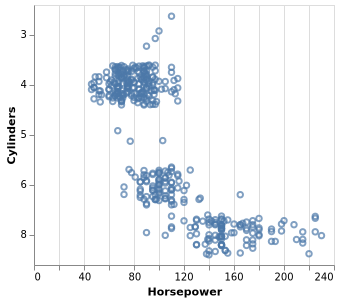
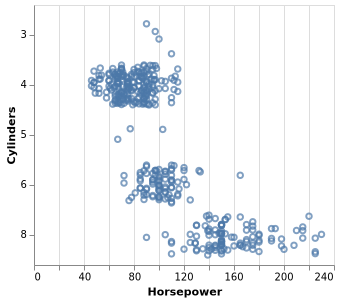
fix: Reverse `yOffset` directionality for quantitative scales to match `y` (#9817)
Close #9816, details and motivation can be found in that issue.

This PR makes the `yOffset` encoding behave the same as the regular `y`
encoding for quantitative scales, which I think is the expected
behavior.

---------

diff --git a/test/compile/scale/range.test.ts b/test/compile/scale/range.test.ts
@@ -342,6 +342,19 @@ describe('compile/scale', () => {
 
         expect(parseRangeForChannel('xOffset', model)).toEqual(makeImplicit([0, {signal: "bandwidth('x')"}]));
       });
+
+      it("returns [bandwidth('y'), 0] for continuous yOffset nested in band y", () => {
+        const model = parseUnitModelWithScaleExceptRange({
+          mark: 'bar',
+          encoding: {
+            x: {field: 'x', type: 'nominal'},
+            y: {field: 'y', type: 'nominal'},
+            yOffset: {field: 'ysub', type: 'quantitative'},
+          },
+        });
+
+        expect(parseRangeForChannel('yOffset', model)).toEqual(makeImplicit([{signal: "bandwidth('y')"}, 0]));
+      });
       it("returns [0, bandwidth('x')] if x has a fixed step for position", () => {
         const model = parseUnitModelWithScaleExceptRange({
           width: {step: 23, for: 'position'},

diff --git a/src/compile/scale/range.ts b/src/compile/scale/range.ts
@@ -421,6 +421,9 @@ function getOffsetRange(channel: string, model: UnitModel, offsetScaleType: Scal
       }
     }
     // otherwise use the position
+    if (channel === YOFFSET && hasContinuousDomain(offsetScaleType)) {
+      return [{signal: `bandwidth('${positionScaleName}')`}, 0];
+    }
     return [0, {signal: `bandwidth('${positionScaleName}')`}];
   } else {
     // continuous scale